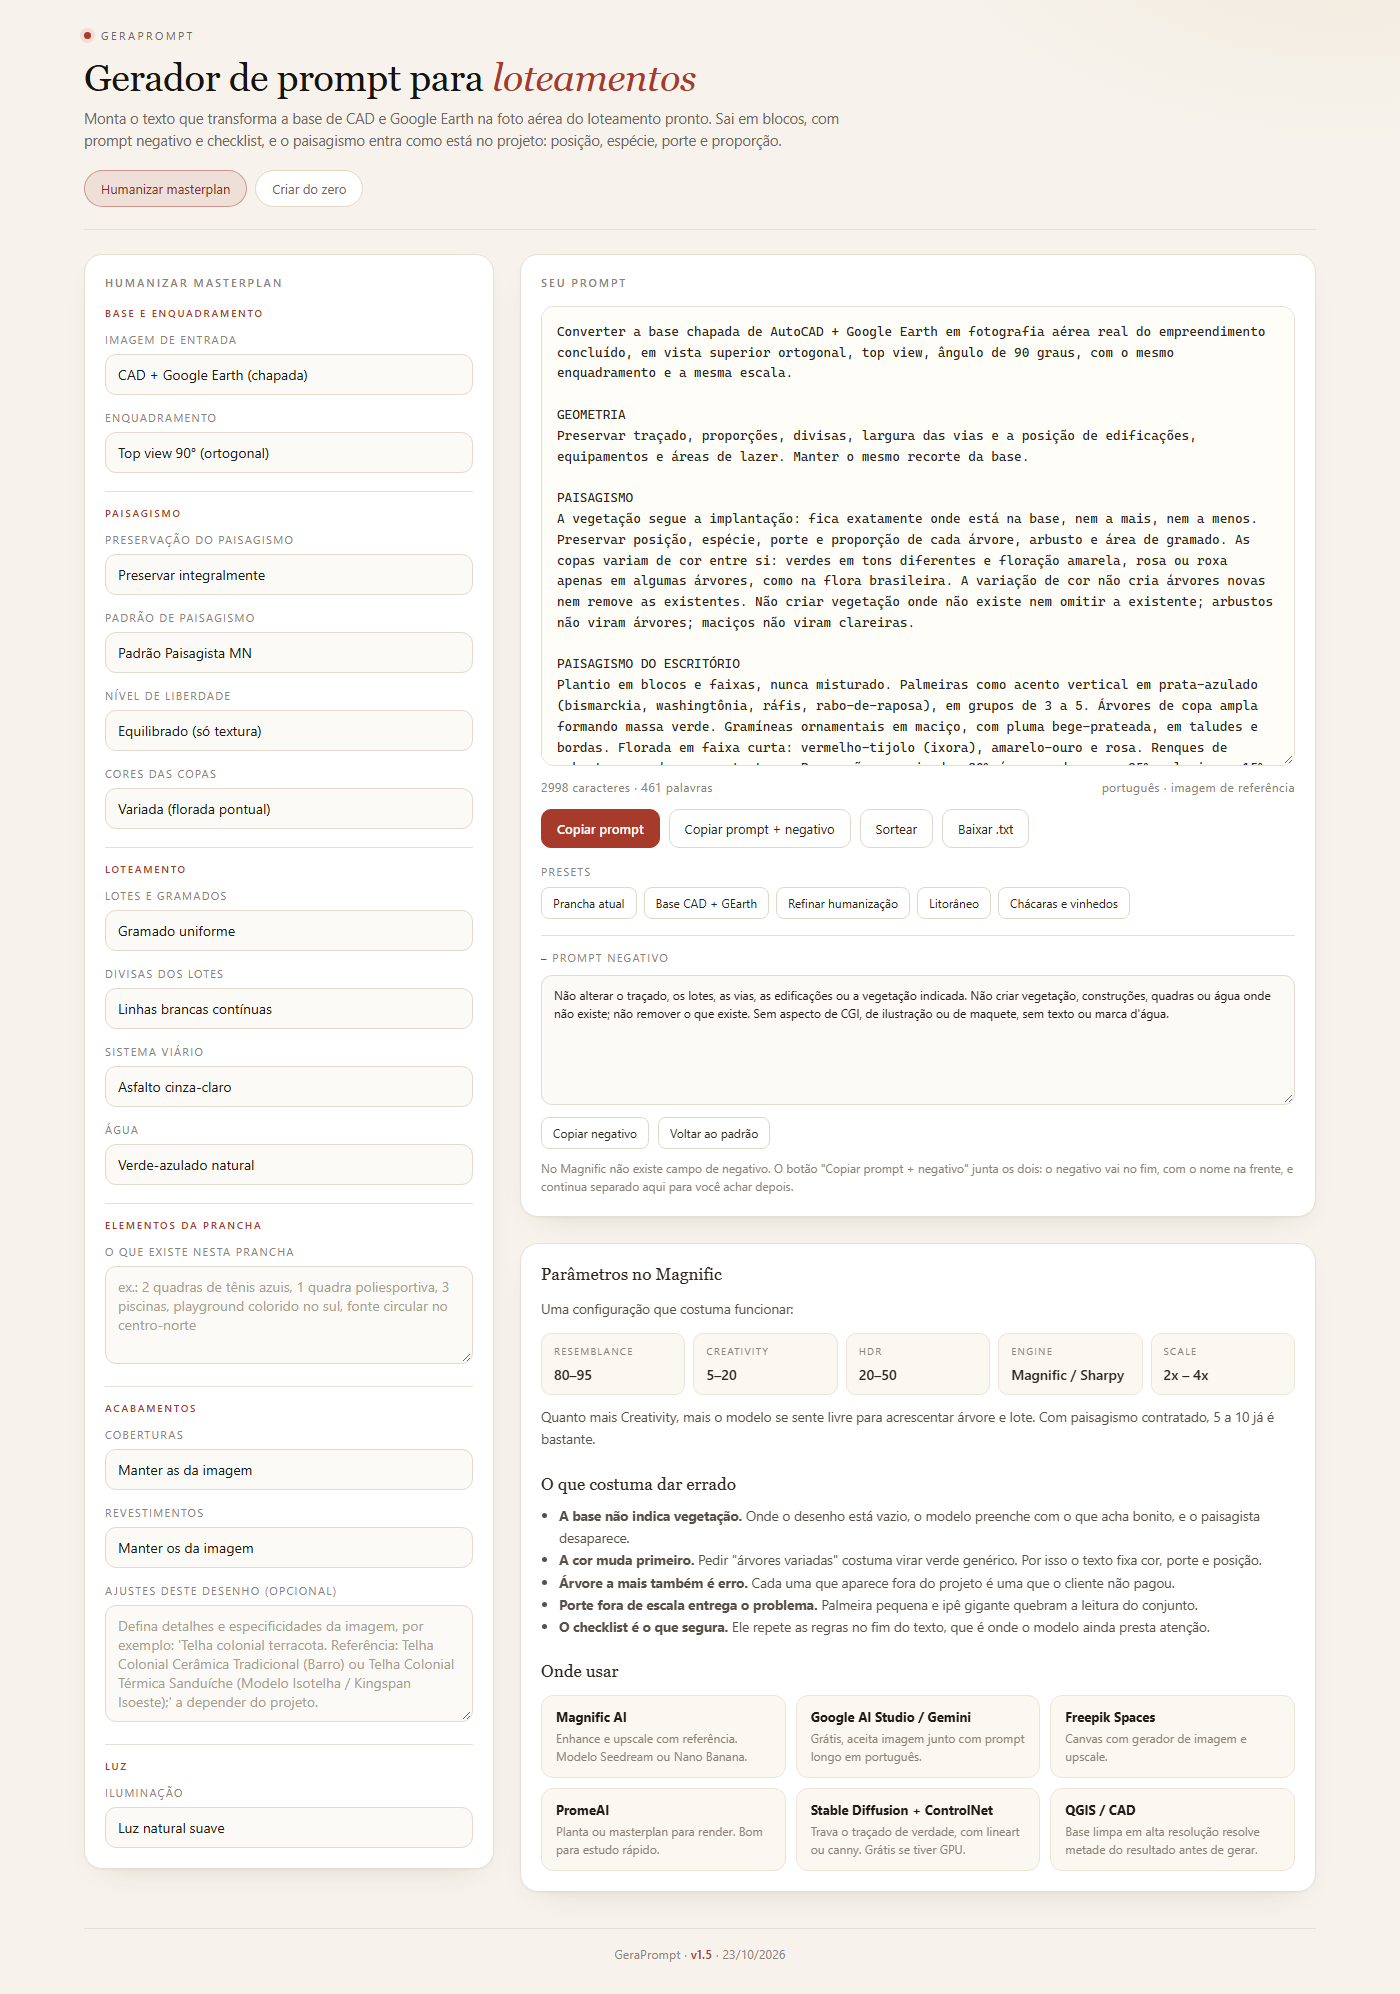
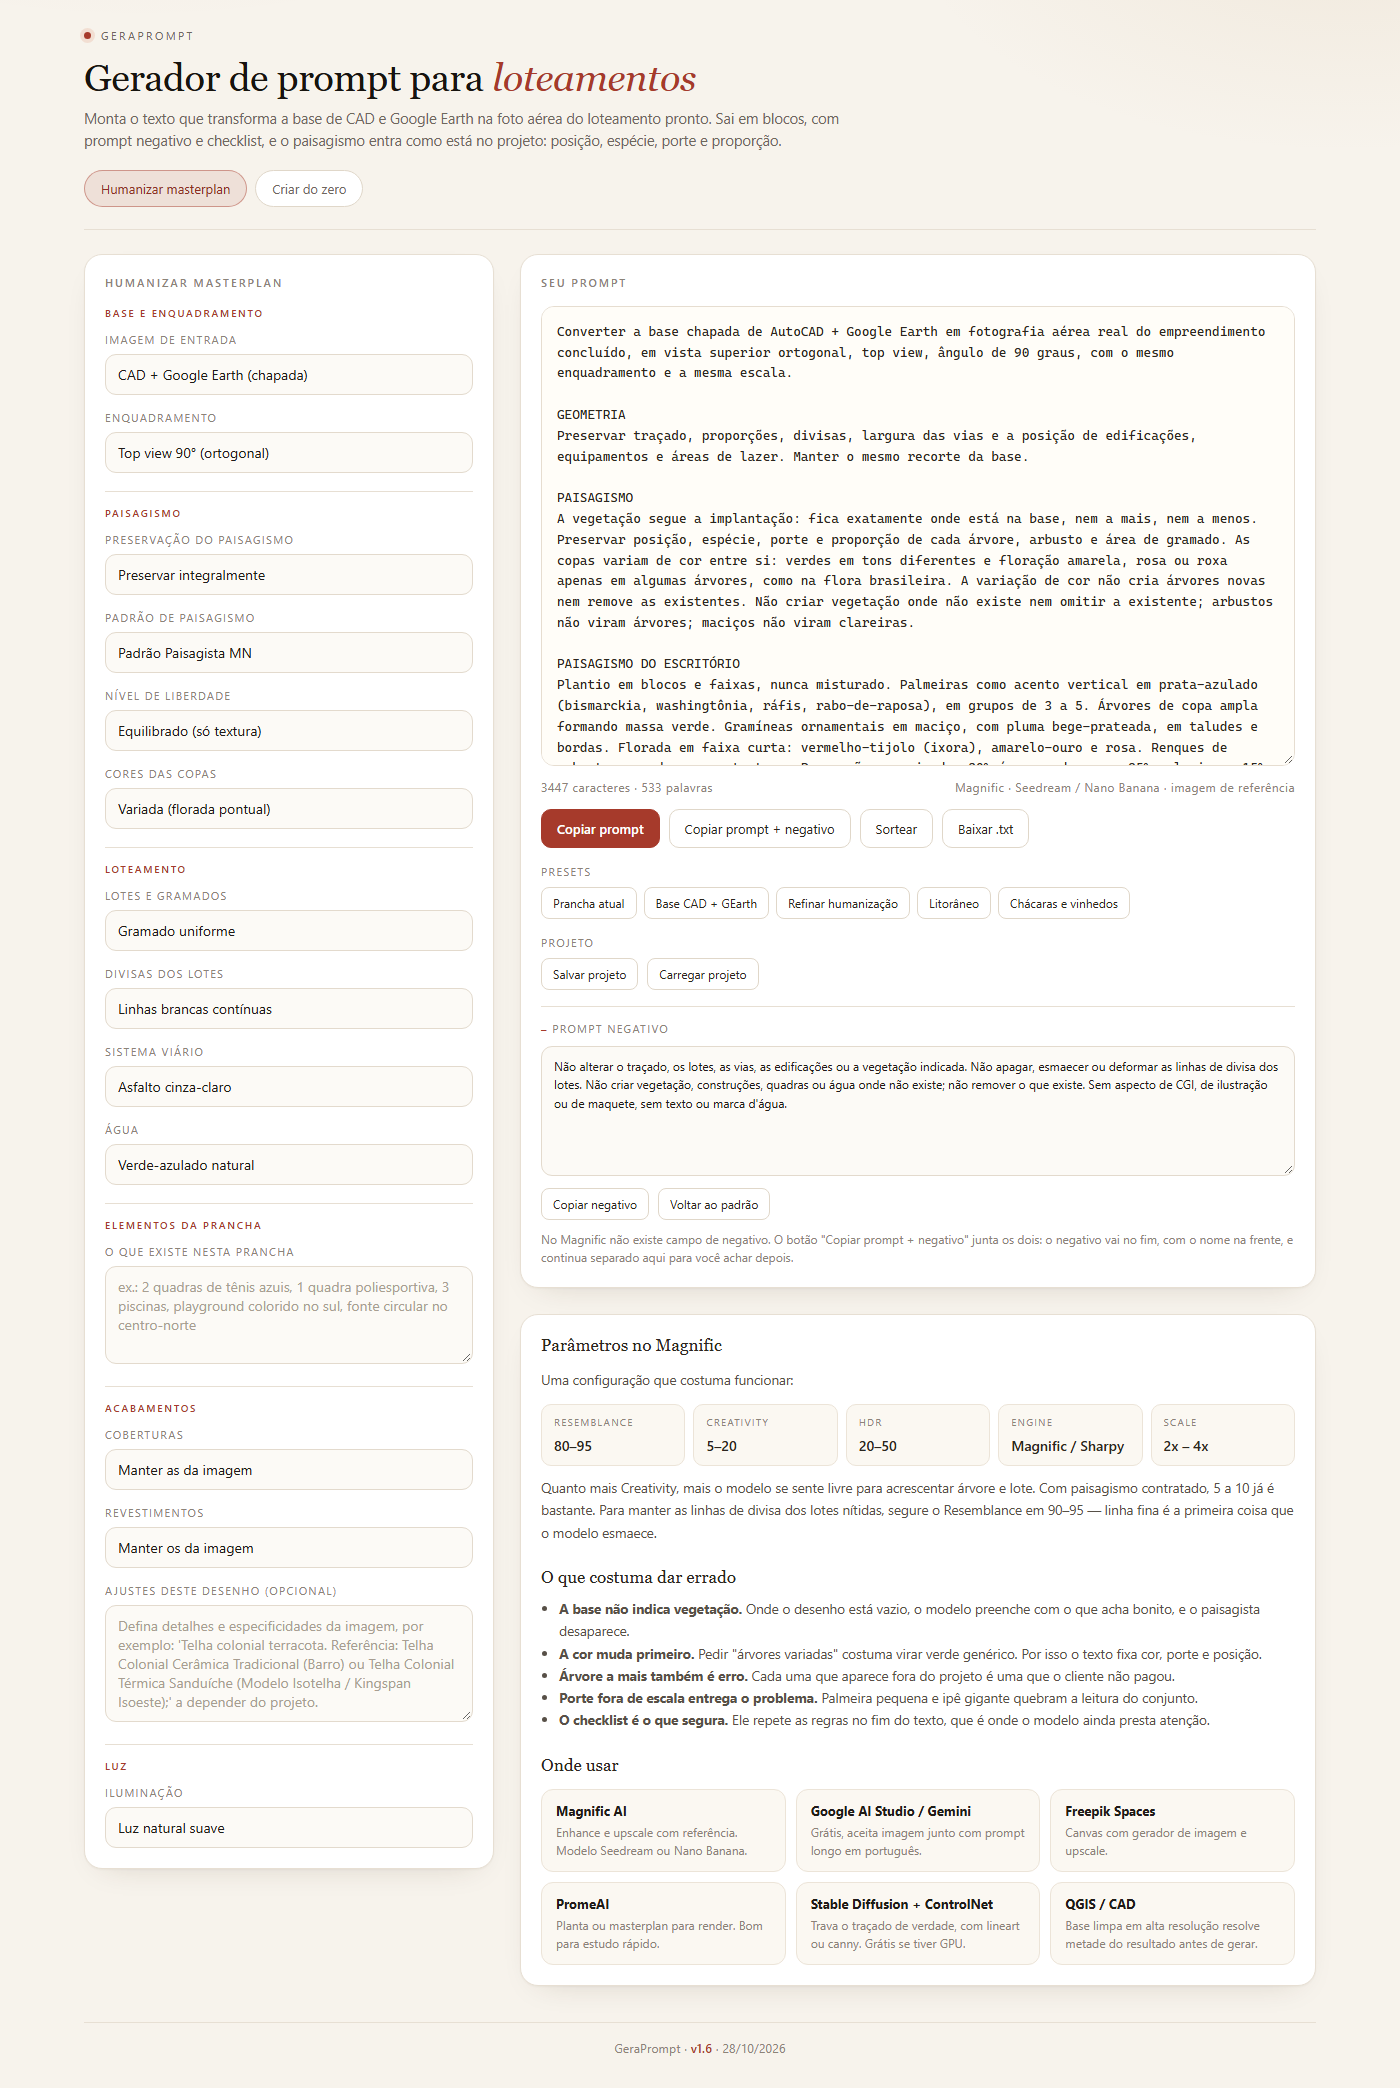
feat: salvar/carregar projeto, divisa de lotes reforcada, logica Magnific (v1.6)

diff --git a/index.html b/index.html
@@ -372,6 +372,12 @@
         <span class="presets-label">Presets</span>
         <div class="presets" id="presets"></div>
 
+        <span class="presets-label">Projeto</span>
+        <div class="btns" style="margin-top:0">
+          <button class="btn small" id="save-proj">Salvar projeto</button>
+          <button class="btn small" id="load-proj">Carregar projeto</button>
+        </div>
+
         <details class="neg" open>
           <summary>Prompt negativo</summary>
           <textarea id="negative" spellcheck="false"></textarea>
@@ -393,7 +399,7 @@
           <div><small>Engine</small><b>Magnific / Sharpy</b></div>
           <div><small>Scale</small><b>2x – 4x</b></div>
         </div>
-        <p class="hint">Quanto mais Creativity, mais o modelo se sente livre para acrescentar árvore e lote. Com paisagismo contratado, 5 a 10 já é bastante.</p>
+        <p class="hint">Quanto mais Creativity, mais o modelo se sente livre para acrescentar árvore e lote. Com paisagismo contratado, 5 a 10 já é bastante. Para manter as linhas de divisa dos lotes nítidas, segure o Resemblance em 90–95 — linha fina é a primeira coisa que o modelo esmaece.</p>
 
         <h3 style="margin-top:24px">O que costuma dar errado</h3>
         <ul>
@@ -418,7 +424,7 @@
 
   </div>
 
-  <footer class="ver">GeraPrompt · <b>v1.5</b> · 23/10/2026</footer>
+  <footer class="ver">GeraPrompt · <b>v1.6</b> · 28/10/2026</footer>
 </div>
 
 <div class="toast" id="toast">copiado</div>
@@ -584,7 +590,7 @@
     luz:{soft:"Luz natural suave", sun:"Sol direto", golden:"Golden hour", overcast:"Dia nublado"}
   };
 
-  const NEG_COMPACTO_PT = "Não alterar o traçado, os lotes, as vias, as edificações ou a vegetação indicada. Não criar vegetação, construções, quadras ou água onde não existe; não remover o que existe. Sem aspecto de CGI, de ilustração ou de maquete, sem texto ou marca d'água.";
+  const NEG_COMPACTO_PT = "Não alterar o traçado, os lotes, as vias, as edificações ou a vegetação indicada. Não apagar, esmaecer ou deformar as linhas de divisa dos lotes. Não criar vegetação, construções, quadras ou água onde não existe; não remover o que existe. Sem aspecto de CGI, de ilustração ou de maquete, sem texto ou marca d'água.";
 
   const NEG_EN = "cartoon, anime, illustration, painting, oversaturated colors, plastic-looking CGI, low-poly, distorted perspective, warped vertical lines, fisheye distortion, duplicate windows, floating objects, text, watermark, logo, deformed people, cluttered composition, noisy, blurry, extra buildings, new roads, invented plots";
 
@@ -667,6 +673,11 @@
         "Plantio em blocos e faixas, nunca misturado. Palmeiras como acento vertical em prata-azulado (bismarckia, washingtônia, ráfis, rabo-de-raposa), em grupos de 3 a 5. Árvores de copa ampla formando massa verde. Gramíneas ornamentais em maciço, com pluma bege-prateada, em taludes e bordas. Florada em faixa curta: vermelho-tijolo (ixora), amarelo-ouro e rosa. Renques de arbusto aparado como estrutura. Proporção aproximada: 30% árvores de copa, 25% palmeiras, 15% gramíneas, 12% florada, 10% arbustos, 8% gramado. Aplicar o padrão apenas onde a base já indica vegetação: a quantidade e a posição vêm da implantação.");
     }
 
+    out.push("LOTEAMENTO E VIAS\n" +
+      "Manter todas as áreas de lote como " + g("lotes").t + ". " +
+      "Representar todas as estradas e vias com " + g("vias").t + ", mantendo alinhamentos e larguras originais. " +
+      "Preservar as linhas de divisão dos lotes com " + g("divisas").t + ", nítidas em todo o traçado, sem apagar, esmaecer ou deformar.");
+
     out.push("ELEMENTOS\nManter a identidade e a quantidade dos equipamentos: quadra de tênis tem piso e linhas de demarcação; quadra de areia tem superfície solta; não converter uma na outra. Nenhum equipamento vira edificação: quadra permanece quadra, com piso e linhas, e não se transforma em casa ou piscina. A água existe apenas onde está desenhada e " + g("agua").t);
 
     out.push("EDIFICAÇÕES\nManter número, posição, planta e cobertura das edificações; não criar construções, quiosques ou equipamentos adicionais. Nenhuma edificação ocupa área de vegetação: onde há maciço arbóreo ou área verde, permanece vegetação.");
@@ -678,7 +689,7 @@
     if(st.h.ajustes) out.push("AJUSTES DESTE DESENHO\n" + st.h.ajustes);
     if(st.h.inventario) out.push("INVENTÁRIO\n" + st.h.inventario + "\nManter forma, cor e quantidade de cada item.");
 
-    out.push("CHECKLIST\n- traçado, lotes, vias e enquadramento idênticos à base;\n- paisagismo na mesma posição, espécie, porte e proporção;\n- nenhuma vegetação criada ou removida;\n- edificações e equipamentos na posição original;\n- sem linhas de marcação, cotas, números, textos ou rótulos do desenho técnico;\n- resultado fotográfico, sem CGI.");
+    out.push("CHECKLIST\n- traçado, lotes, vias e enquadramento idênticos à base;\n- linhas de divisa dos lotes nítidas e contínuas em todo o traçado;\n- paisagismo na mesma posição, espécie, porte e proporção;\n- nenhuma vegetação criada ou removida;\n- edificações e equipamentos na posição original;\n- sem linhas de marcação, cotas, números, textos ou rótulos do desenho técnico;\n- resultado fotográfico, sem CGI.");
 
     return out.join("\n\n");
   }
@@ -721,7 +732,7 @@
     $("#prompt").value = p;
     $("#count").textContent = p.length + " caracteres · " + p.split(/\s+/).filter(Boolean).length + " palavras";
     $("#engine-hint").textContent = st.tab === "hum"
-      ? "português · imagem de referência"
+      ? "Magnific · Seedream / Nano Banana · imagem de referência"
       : "inglês · texto para imagem";
   }
 
@@ -831,6 +842,51 @@
     a.download = st.tab==="hum" ? "prompt-humanizar-masterplan.txt" : "prompt-empreendimento.txt";
     a.click();
     setTimeout(()=>URL.revokeObjectURL(a.href), 1500);
+  });
+
+  /* salvar / carregar projeto */
+  const fileInput = document.createElement("input");
+  fileInput.type = "file";
+  fileInput.accept = "application/json,.json";
+  fileInput.style.display = "none";
+  document.body.appendChild(fileInput);
+
+  $("#save-proj").addEventListener("click", ()=>{
+    const data = { app:"geraprompt", version:"1.6", savedAt:new Date().toISOString(), state: st };
+    const blob = new Blob([JSON.stringify(data, null, 2)], {type:"application/json"});
+    const a = document.createElement("a");
+    a.href = URL.createObjectURL(blob);
+    a.download = "geraprompt-projeto.json";
+    a.click();
+    setTimeout(()=>URL.revokeObjectURL(a.href), 1500);
+    toast("projeto salvo");
+  });
+
+  $("#load-proj").addEventListener("click", ()=> fileInput.click());
+
+  fileInput.addEventListener("change", ()=>{
+    const f = fileInput.files && fileInput.files[0];
+    if(!f) return;
+    const r = new FileReader();
+    r.onload = ()=>{
+      try {
+        const data = JSON.parse(r.result);
+        if(data && data.state){
+          if(data.state.tab) st.tab = data.state.tab;
+          if(data.state.h) Object.assign(st.h, data.state.h);
+          if(data.state.c) Object.assign(st.c, data.state.c);
+          syncForm();
+          setTab(st.tab === "criar" ? "criar" : "hum");
+          toast("projeto carregado");
+        } else {
+          toast("arquivo não reconhecido");
+        }
+      } catch(e){
+        toast("não consegui ler o arquivo");
+      }
+      fileInput.value = "";
+    };
+    r.readAsText(f);
   });
 
   const rnd = arr => arr[Math.floor(Math.random()*arr.length)];
